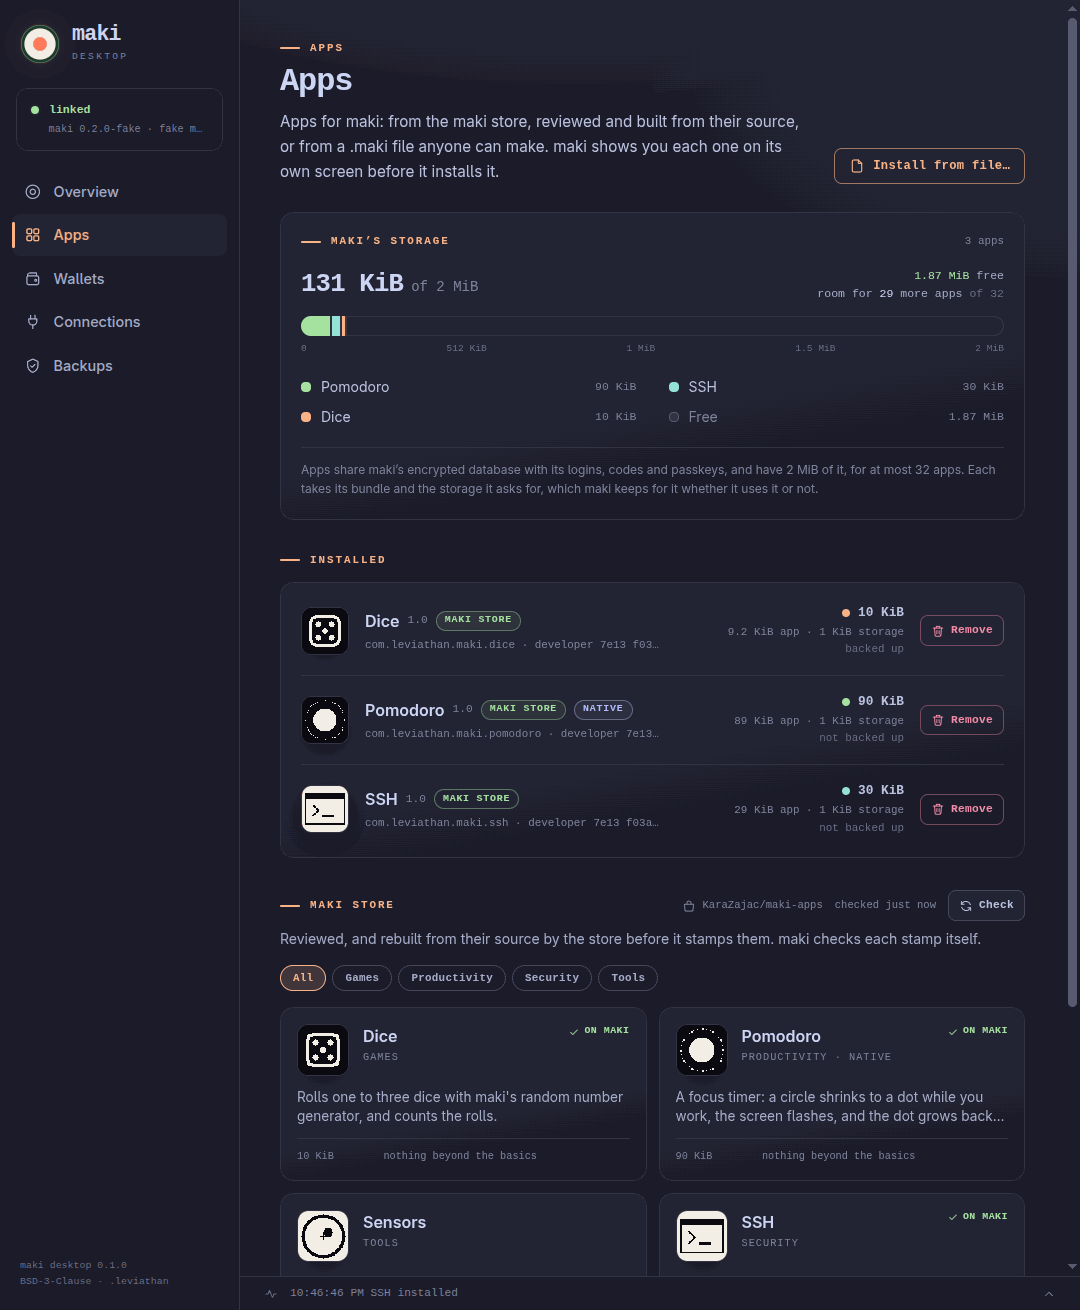
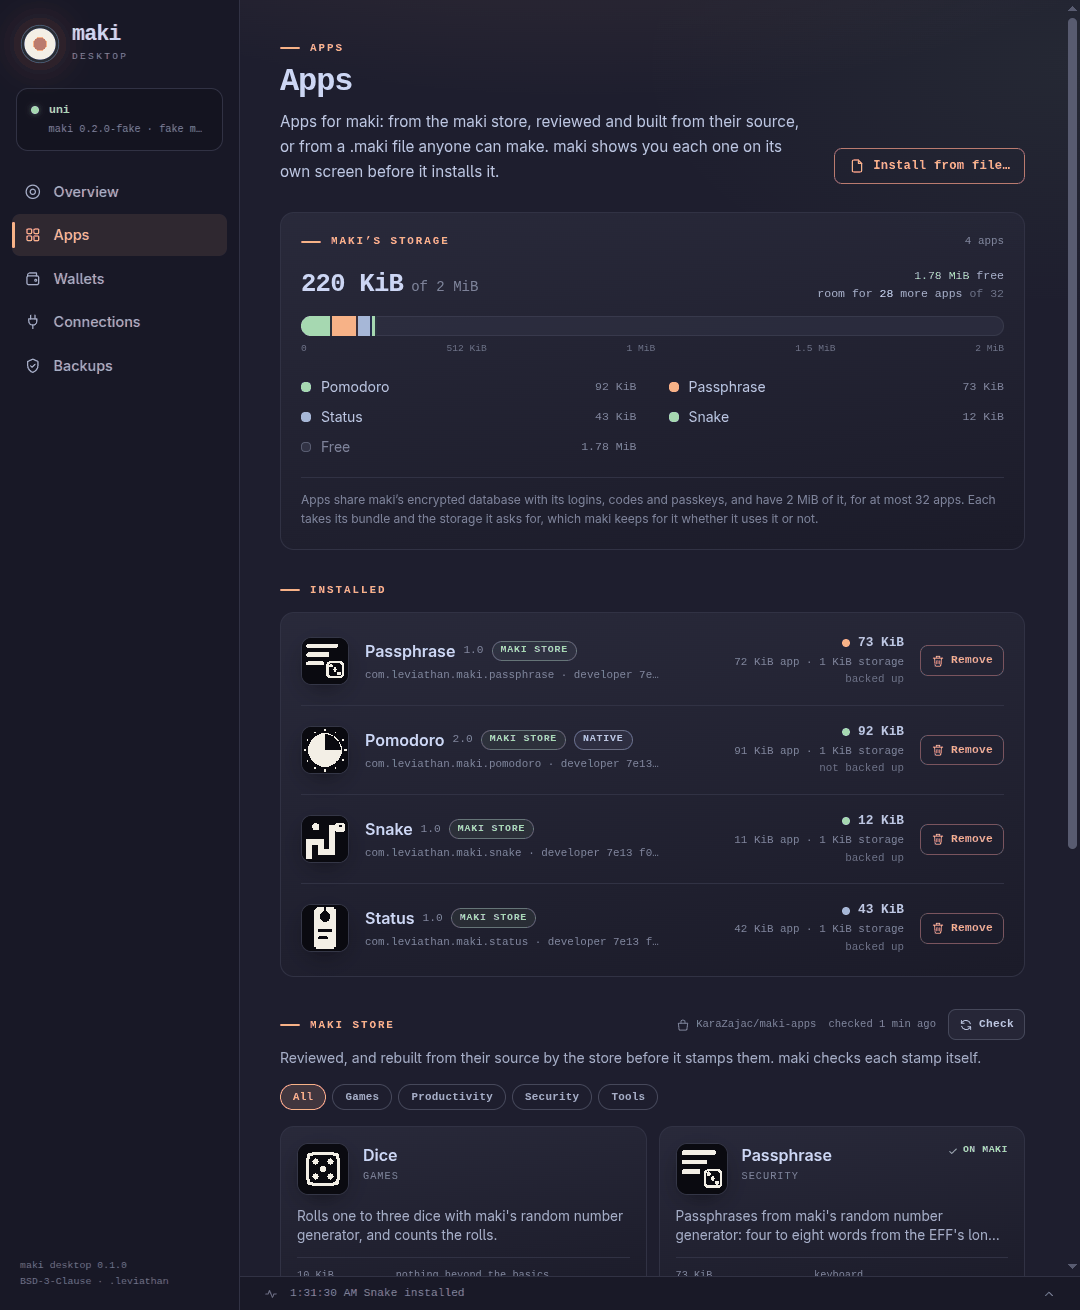
Docs: maki desktop's wallets, and three more apps in the store
The README says maki desktop is a wallet now, lists Passphrase,
Status and Snake with the store's apps, and has new screenshots: the
Apps page with four store apps installed on a maki named uni, and the
Wallets page (testnet4, the BIP39 test phrase's accounts).

ARCHITECTURE.md: the Wallets flow is built; maki knows the most-held
tokens by contract and spells their amounts out; the store has eight
apps, and its CI can come now the SDK is public; and a new step, the
wallets in maki desktop, with what they don't do yet (prices, fee
bumping, Ethereum's history).

Claude-Session: https://claude.ai/code/session_01KrrQLcb6MfwT6Kc7SresSY

diff --git a/ARCHITECTURE.md b/ARCHITECTURE.md
@@ -34,7 +34,7 @@ extensions for the web, and maki's screen and button as the approval for everyth
 | **Passkeys** | browser ⇄ maki over FIDO2 directly; maki shows the site, you press | works in the stock vault |
 | **Passwords** | page → extension → desktop → maki: "*site* — Fill login?" → press → credential back to the page; a login typed and submitted → "Keep new login?" | **built**, tested against the fake maki in real Chromium and Firefox; on maki, built and emulated |
 | **TOTP** | extension spots the code field → "*site* — Send code?" → press → filled; the first time, the owner picks which entry is the site's | **built**, as above; needs a Roughtime-verified clock |
-| **Wallets** | dApp → extension (a wallet provider) or wallet software → maki switches to that wallet, shows the decoded transaction → press → signature back | planned: Bitcoin first, keys from the recovery phrase (below) |
+| **Wallets** | maki desktop's Wallets page, a dApp through the extension (a wallet provider), or wallet software → maki shows the decoded transaction → press → signature back | **built**: Bitcoin (native SegWit, taproot) and Ethereum, keys from the recovery phrase (below); tested against the fake maki |
 | **Apps** | maki desktop installs `.maki` apps over serial, from the store or a file; maki shows what each may do before installing | designed (below); WebAssembly apps first |
 
 ## What each flow can and can't protect
@@ -452,7 +452,10 @@ device:
     itself, strictly, and hashes exactly what it shows, the network and the app first, then a
     permit (EIP-2612 or Permit2) as who may spend how much of which token until when, and
     anything else field by field. Signatures match alloy's, byte for byte, typed data's hashes
-    included. Not yet: token names and decimals, which maki can't verify.
+    included. The tokens people hold most (USDC, USDT, DAI and WETH on the networks maki desktop
+    knows, and WBTC on Ethereum) maki knows by network and contract, from a table in its
+    firmware, and shows their amounts in their own units ("1.5 USDC"); any other token's are its
+    smallest units, with its contract.
 11. **Apps** (above), each step emulated first:
     1. ~~WebAssembly apps, sideloaded~~ — done in the emulator: the bundle format and the `maki`
        tool; the host, with drawing, buttons, storage and menus; installing over serial with the
@@ -474,8 +477,8 @@ device:
        [KaraZajac/maki-apps](https://github.com/KaraZajac/maki-apps): each app's signed bundle and
        the commit it's built from, scripts that rebuild each from there and publish the store,
        and the store itself, which maki desktop fetches, lists in a grid and installs from
-       (Pomodoro, Dice, Tally, Sensors and SSH so far). Not yet: the CI that runs its check on
-       each app submitted, which needs the SDK public.
+       (Pomodoro, Passphrase, Snake, Status, Dice, Tally, Sensors and SSH so far). Not yet: the
+       CI that runs its check on each app submitted, now the SDK is public.
     4. ~~Native apps~~ — done in the emulator (above, "Native apps: how they're confined"): the
        kernel confines a process and lets the one that started it end it or ask after it; the
        stub loads and confines each app; the host serves it the same functions a WebAssembly
@@ -483,6 +486,19 @@ device:
        source, reproducibly. Hello Native opens, runs, exits and opens again; an app that fills
        800 KiB runs through swap with its memory intact; a fault or a panic shows as a crash.
        Pomodoro, a focus timer, is the first native app in the store. Not yet on a badge.
+12. ~~Wallets in maki desktop~~ — done against the fake maki: the Wallets page is a wallet for
+    each account. Bitcoin: the account's descriptor from maki (with the owner's yes), kept; the
+    balance, coins and activity from mempool.space's Esplora API (a gap-limit scan of both
+    chains, two requests a second, an address asked about again only once it has changed); a
+    fresh address as a QR code, checked on maki's screen; and sending, with mempool.space's fee
+    rates or the owner's, a preview of the payment, the fee and the change, then a PSBT made
+    the way maki reads them (the whole transaction each SegWit coin comes from, each key's
+    derivation, change marked as change), signed on maki and broadcast. Ethereum: maki desktop
+    connects to the account as a site of its own, `desktop.maki`, which maki asks about like any
+    other (the browser bridge refuses the name from sites); what it holds on each network maki
+    desktop knows, its coin and the tokens maki knows; and sending either, which maki spells
+    out. Not yet: prices in money, fee bumping (RBF) and Ethereum's history, which needs an
+    indexer.
 
 ## Constraints to design around
 

diff --git a/README.md b/README.md
@@ -7,10 +7,11 @@ for your keys.
 > **Status: early development.** maki builds and boots in an
 > emulator: a boot PIN, a recovery phrase, a home screen, the vault, a Bitcoin wallet and a serial
 > link. A desktop app in the tray ([maki-desktop](https://github.com/KaraZajac/maki-desktop)) keeps
-> it linked, its clock verified with Roughtime and its backups encrypted on the computer; a browser
-> extension asks maki for logins and TOTP codes, which you approve on maki's screen, and gives
-> sites maki's Ethereum account; and Bitcoin wallet software (Sparrow, Bitcoin Core) sends
-> transactions through it for maki to show you and sign. Apps anyone can write (in Rust, for
+> it linked, its clock verified with Roughtime and its backups encrypted on the computer, and is a
+> wallet for maki's Bitcoin and Ethereum accounts (balances, receiving, sending, each payment shown
+> and signed on maki); a browser extension asks maki for logins and TOTP codes, which you approve
+> on maki's screen, and gives sites maki's Ethereum account; and Bitcoin wallet software (Sparrow,
+> Bitcoin Core) sends transactions through it for maki to show you and sign. Apps anyone can write (in Rust, for
 > WebAssembly or as native code maki's kernel confines) install from a signed `.maki` file, or
 > from the maki store ([maki-apps](https://github.com/KaraZajac/maki-apps): reviewed, and rebuilt
 > from their source), after maki shows you what they are and who signed them, and run below maki's
@@ -27,7 +28,9 @@ for your keys.
 
 ![Pomodoro, a native app, on maki's firmware in the emulator: its icon on the home screen of a maki named umekyu, the time at the top right; ready, a full pie with the minutes to focus (25); the pie emptying clockwise like a clock's hand as the focus runs; paused, two bars in a dark disc at the centre; the last sliver of the focus; the screen flashing when it's over; and the pie filling back up as the break runs](docs/pomodoro.png)
 
-![maki desktop's Apps page: maki's room for apps as a bar (131 KiB of 2 MiB, room for 29 more apps), a segment each for Pomodoro, SSH and Dice; the three installed, from the maki store, Pomodoro marked native; and the maki store's apps in a grid by category, fetched from KaraZajac/maki-apps](docs/desktop.png)
+![maki desktop's Apps page, linked to a maki named uni: maki's room for apps as a bar (220 KiB of 2 MiB, room for 28 more apps), a segment each for Pomodoro, Passphrase, Status and Snake; the four installed from the maki store, Pomodoro marked native; and the maki store's apps in a grid by category, fetched from KaraZajac/maki-apps](docs/desktop.png)
+
+![maki desktop's Wallets page, with the BIP39 test phrase's accounts: Bitcoin on testnet4, its balance (0.00279565 tBTC), a fresh address as a QR code with Copy and "Check it on maki", and its activity, sent and received; and Ethereum, its account and what it holds on each network](docs/wallets.png)
 
 ## The idea
 
@@ -59,8 +62,9 @@ Planned apps:
   phrase, type into your computer, and talk to software on it. Native apps too, machine code
   in a process of its own that maki's kernel confines. An SDK with a simulator and example apps,
   and the maki store, reviewed and rebuilt from source, in maki desktop: Pomodoro (a focus timer,
-  a pie that empties like a clock while you work and fills back up while you rest), Dice, Tally,
-  Sensors and SSH so far
+  a pie that empties like a clock while you work and fills back up while you rest), Passphrase
+  (diceware from maki's random number generator), Status (a sign for your desk, which your
+  computer can set), Snake, Dice, Tally, Sensors and SSH so far
 
 ## Who it's for
 
